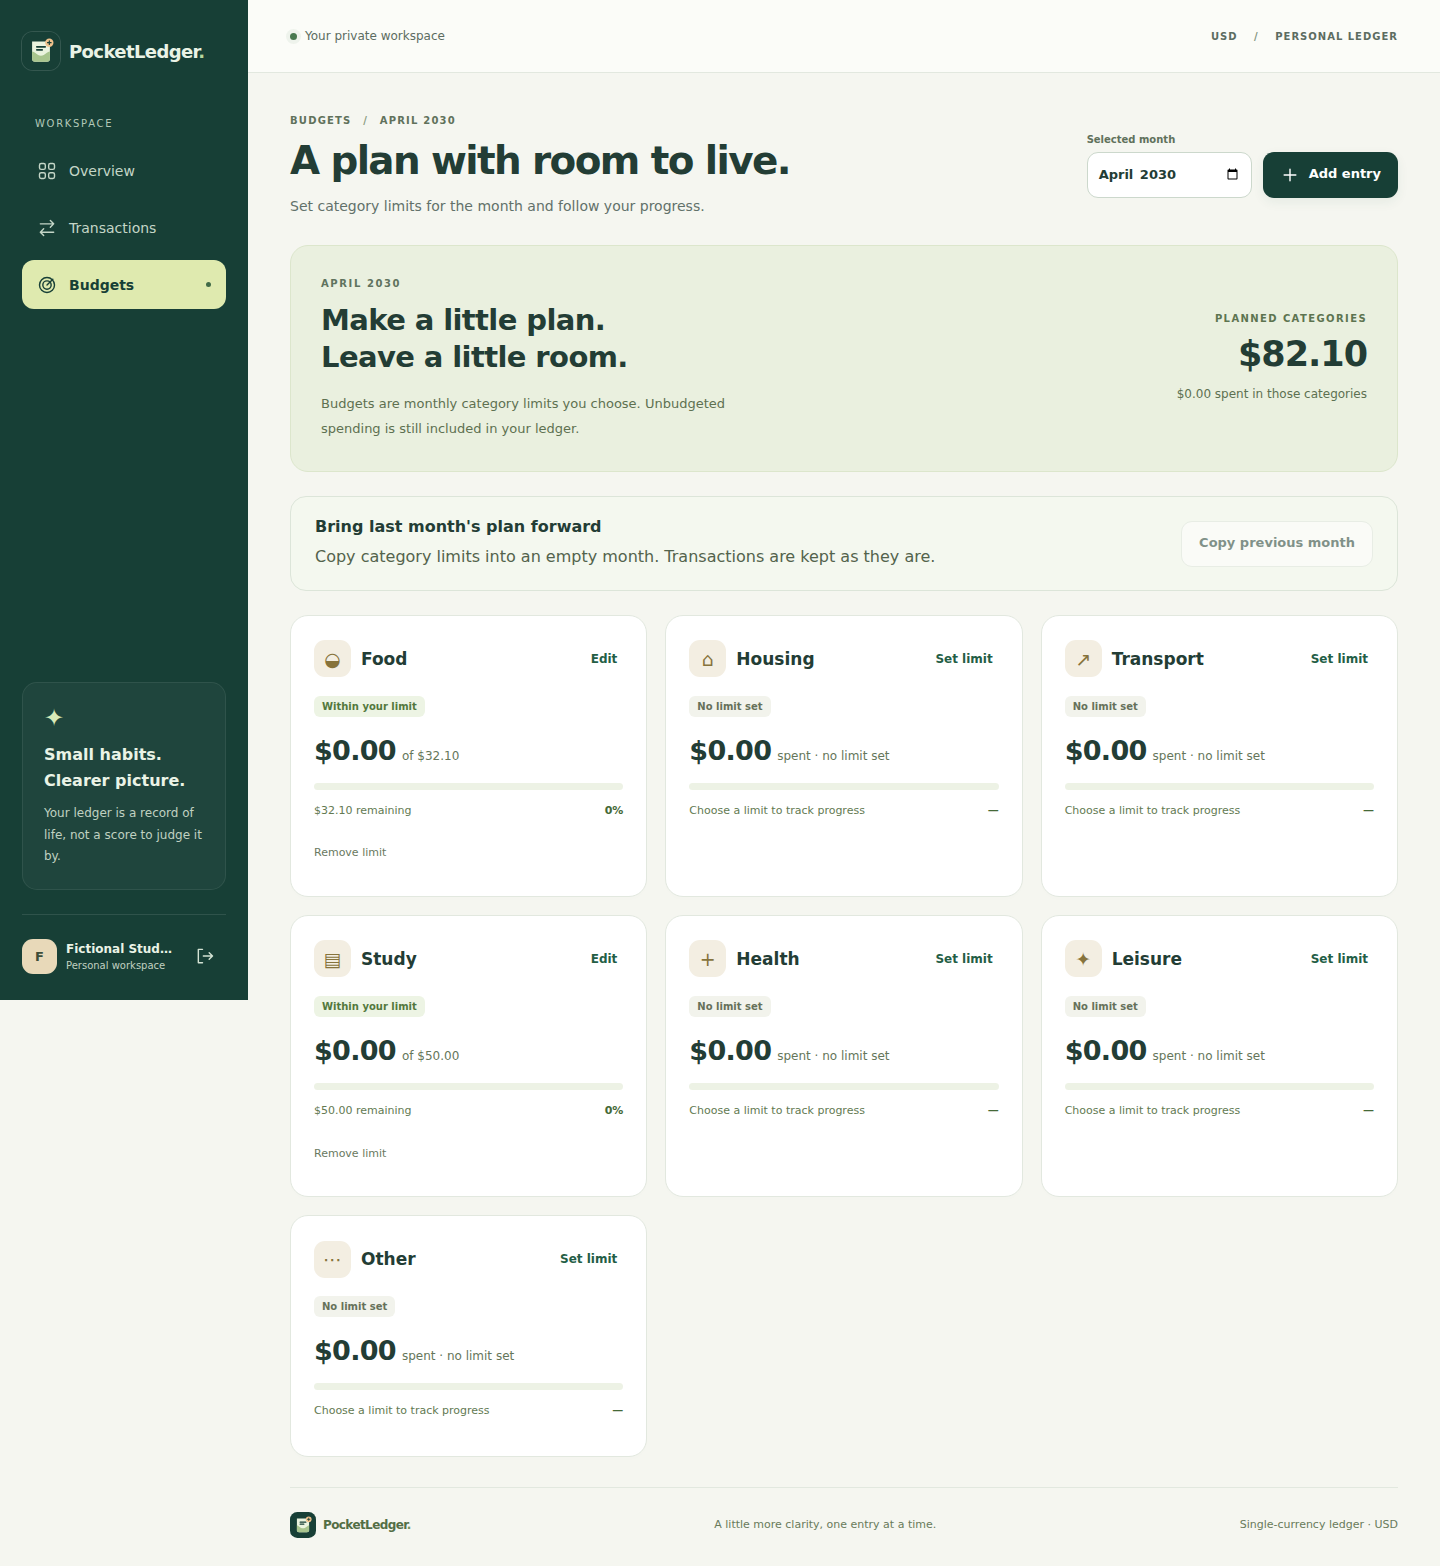
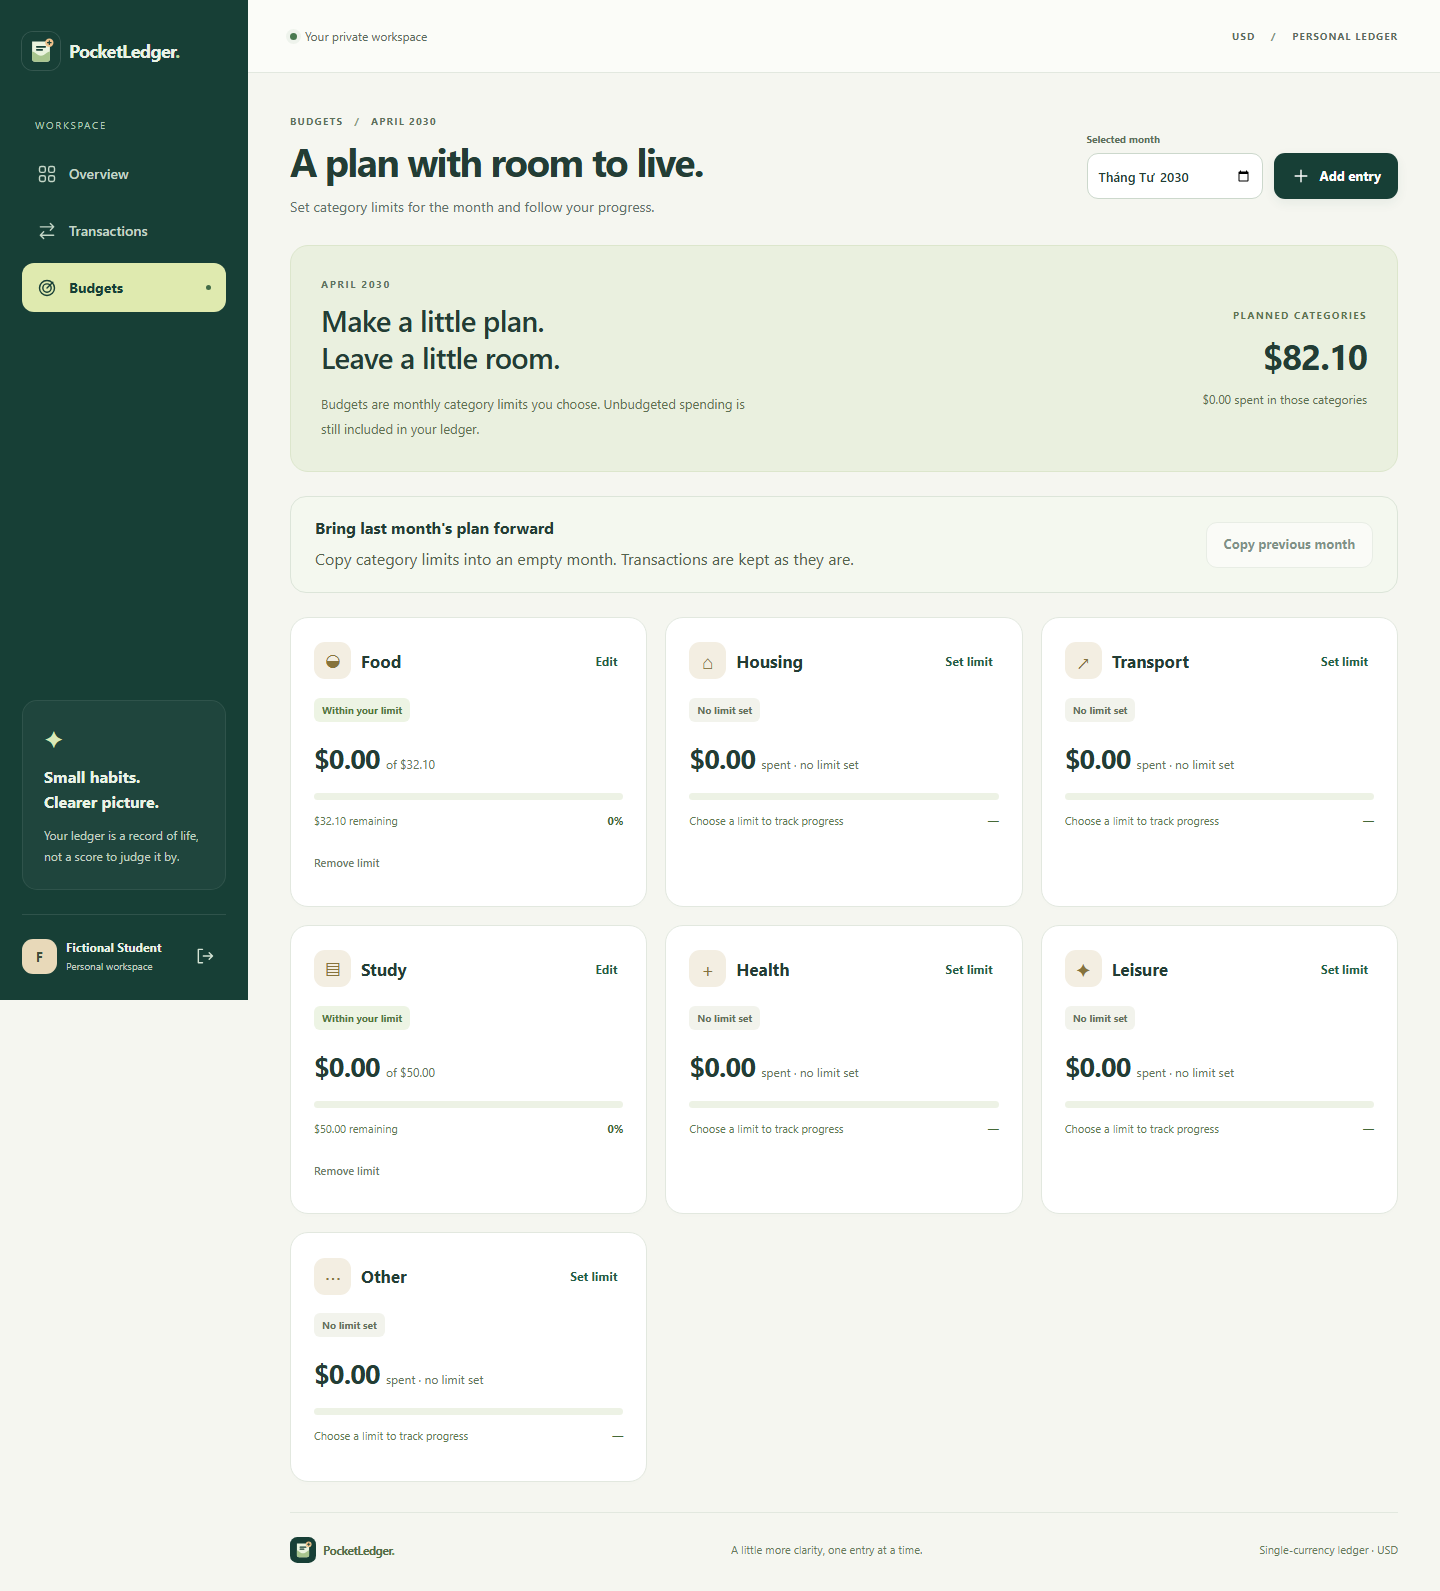
chore: patch dependencies and verify PocketLedger portfolio

diff --git a/docs/portfolio-verification.md b/docs/portfolio-verification.md
@@ -1,0 +1,48 @@
+# Kiểm chứng portfolio — 03/11/2026
+
+## Thay đổi
+
+- Giữ nguyên source nghiệp vụ, dữ liệu và MIT License.
+- Cập nhật patch được ghim của Zod, Vite và concurrently; lockfile cũng lấy các
+  bản sửa transitive. Không dùng `npm audit fix --force` hoặc đổi major version.
+  Trước cập nhật npm báo 6 advisories; sau cập nhật báo 0 tại thời điểm kiểm tra.
+  Đây không phải chứng nhận ứng dụng không còn lỗ hổng.
+- Chụp lại ảnh ngân sách desktop/mobile từ bản build thật qua `e2e/browser.mjs`;
+  dữ liệu trong ảnh là fixture hư cấu, không phải giao dịch của người dùng thật.
+- Làm rõ cách chạy trên PowerShell và đưa các quyết định backend lên đầu README.
+
+## Đã chạy trên Windows, Node.js 24.19.0
+
+```powershell
+npm ci
+npm test
+npm run build
+npx playwright install chromium
+npm run test:browser
+npm audit
+```
+
+19 bài API/logic và build TypeScript/Vite vượt qua. Năm bài Chromium vượt qua:
+phân trang hơn 500 giao dịch, lỗi mạng/response đến muộn, sao chép ngân sách khi
+mất phản hồi, mobile 390 px và phiên hết hạn. Các bài dùng database local riêng.
+
+Ảnh mới: `docs/screenshots/budgets-desktop.png` và `budgets-mobile.png`.
+Đã xem lại ảnh để kiểm tra nội dung và bố cục. Các ảnh JPG khác là ảnh đã có trong repo.
+
+## Bằng chứng backend
+
+- `server/domain.ts` nhận chuỗi tiền thập phân và chuyển thành cent nguyên;
+  giới hạn giá trị tránh số vượt phạm vi an toàn. Đây là sổ USD, chưa đa tiền tệ.
+- `server/store.ts` giới hạn dữ liệu theo tài khoản; keyset cursor giữ vị trí khi
+  thêm giao dịch mới. CSV lấy toàn bộ kết quả phù hợp, không bị giới hạn ở trang đang xem.
+- Sao chép ngân sách kiểm tra tháng nguồn/đích và thực hiện cả nhóm trong một
+  transaction; không ghi đè tháng có kế hoạch hoặc sao chép giao dịch.
+- Cookie phiên HttpOnly, hash token trong SQLite; thao tác ghi cần Origin và CSRF hợp lệ.
+
+## Hosting và phần chưa kiểm tra
+
+`https://giang-pocketledger.onrender.com/api/health` trả HTTP 200 với `{"ok":true}`.
+Chưa thử lại toàn bộ luồng trình duyệt production, kiểm tra Render logs hoặc chạy
+Docker trong đợt này. E2E/ảnh local không chứng minh bản hosting cùng commit.
+SQLite trên Render Free có thể bị reset; không dùng demo để giữ số liệu tài chính thật.
+Xem [deployment.md](deployment.md) và [render-free.md](render-free.md).

diff --git a/README.md b/README.md
@@ -7,6 +7,10 @@
 Ứng dụng ghi chép thu chi và theo dõi ngân sách cá nhân, dùng React, TypeScript,
 Express và SQLite.
 
+Điểm kỹ thuật: tính tiền bằng cent nguyên, truy vấn theo chủ sở hữu và sao chép
+ngân sách trong transaction. [Kết quả kiểm chứng 03/11/2026](docs/portfolio-verification.md)
+ghi rõ kiểm thử local, ảnh mới và phạm vi kiểm tra hosting.
+
 ## Chức năng
 
 - Thêm, sửa, xóa khoản thu và chi.
@@ -31,6 +35,7 @@ npm run dev
 
 Mở http://127.0.0.1:5174. Vite chuyển `/api` đến backend ở cổng 3002.
 Có thể sao chép `.env.example` thành `.env` để thay cấu hình.
+Trên PowerShell: `Copy-Item .env.example .env`.
 
 Chọn **Explore a private demo** để tạo không gian dùng thử với dữ liệu hư cấu,
 hoặc đăng ký tài khoản để bắt đầu với sổ trống.
